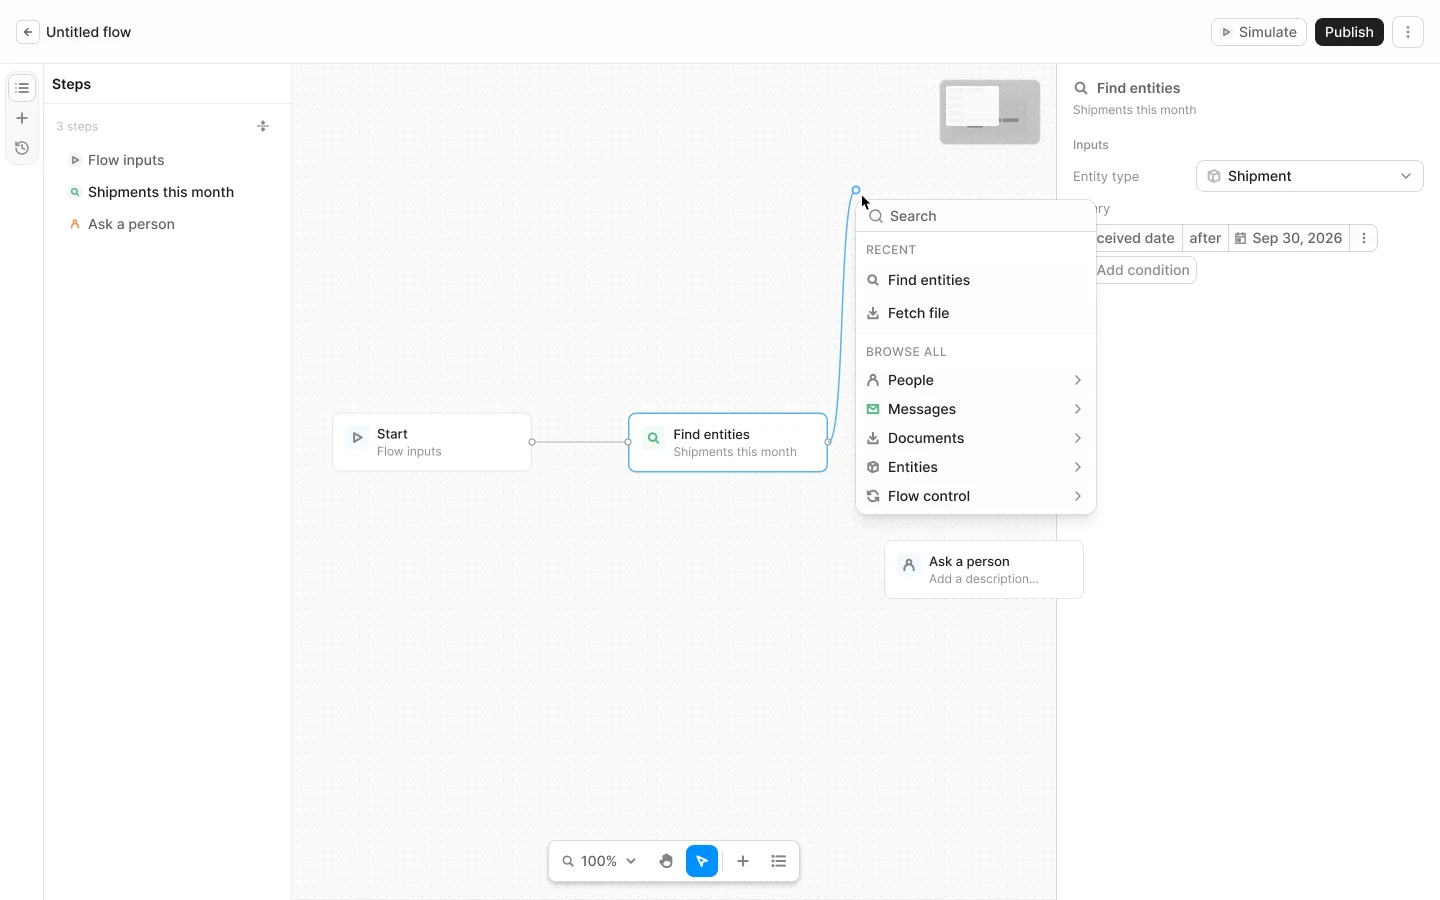
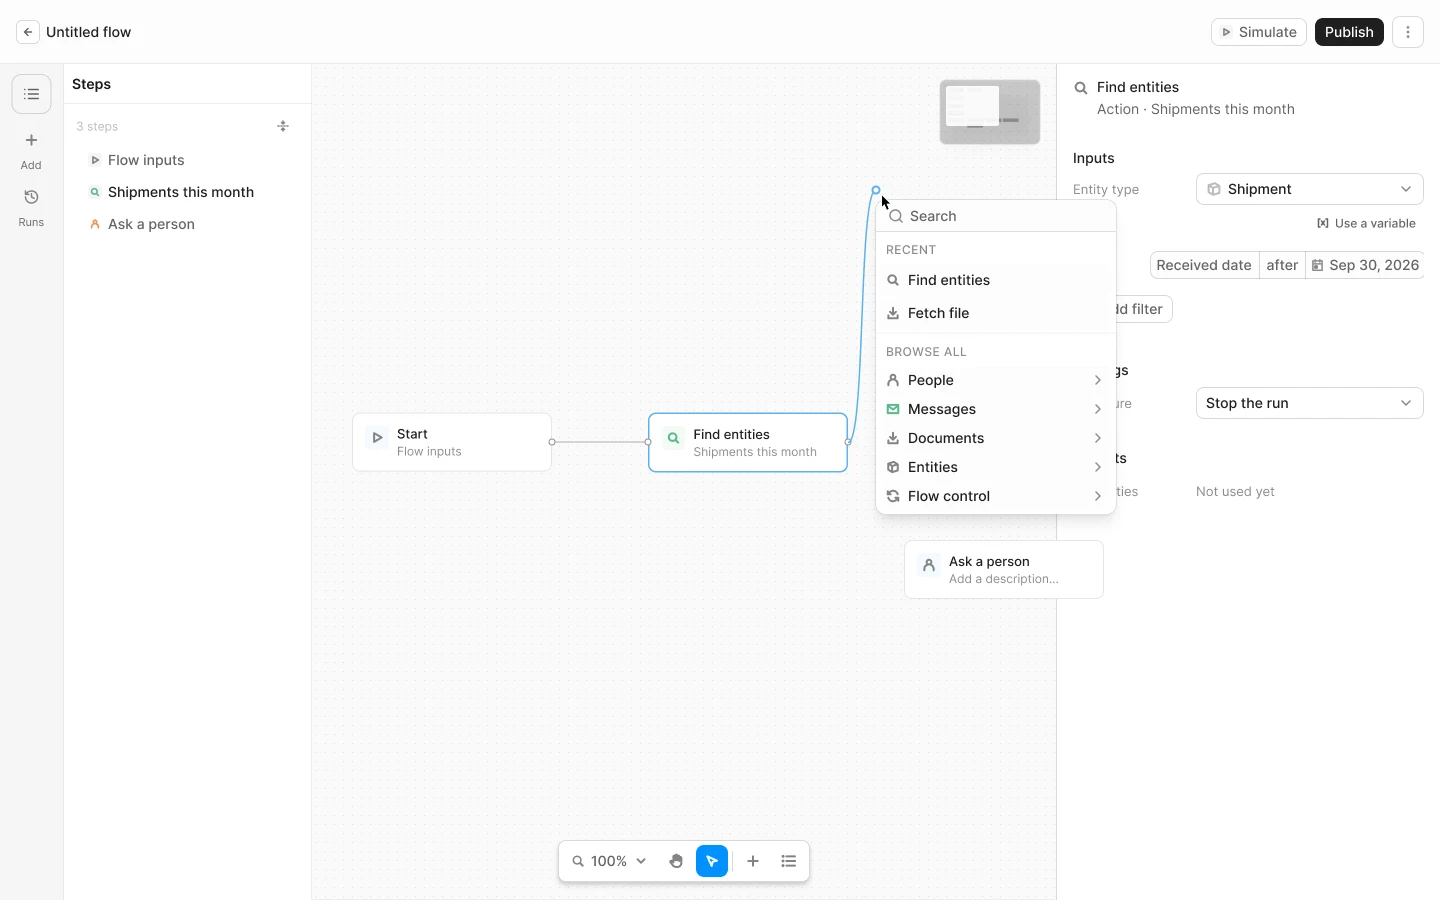
Flows editor: R3 rail; Action prefix only with a description
Replaces the segmented rail with Aakarsh's R3 pick (Explorations
933:120562, 933:121144): a 64 px grey rail, the open panel as a 40 px
pressed ghost icon button with no label, the others as 32 px ghost icon
buttons over an 11 px label. The panel starts at 64 px, the canvas at
312. A step with no description shows "Add a description…" alone, as
J2.1 does. Re-exports the twelve Find entities placeholders.

diff --git a/libs/@hashintel/petrinaut/flows-editor-prototype/src/left-panel.tsx b/libs/@hashintel/petrinaut/flows-editor-prototype/src/left-panel.tsx
@@ -4,7 +4,6 @@ import {
   Button,
   Icon,
   type IconName,
-  SegmentedControl,
   TextInput,
 } from "@hashintel/ds-components";
 import { css, cva, cx } from "@hashintel/ds-helpers/css";
@@ -478,20 +477,44 @@ const Library = () => {
   );
 };
 
-/** Option F's rail (2 Nov): 44 px, white, a hairline on its right, the DS SegmentedControl standing up in it. */
+/**
+ * The R3 rail (Aakarsh's pick, 2 Nov; Explorations 933:120562, 933:121144): 64 px, grey, a hairline on its right,
+ * items centred 10 px apart from 10 px down.
+ */
 const railStyle = css({
   display: "flex",
   flexDirection: "column",
   alignItems: "center",
+  gap: "[10px]",
   flexShrink: 0,
-  width: "[44px]",
+  width: "[64px]",
   height: "[100%]",
-  paddingTop: "2",
-  backgroundColor: "neutral.bgSolid.min",
+  paddingTop: "[10px]",
+  backgroundColor: "neutral.bgSolid.surface.active",
   borderRightWidth: "thin",
   borderRightStyle: "solid",
   borderRightColor: "neutral.bd.subtle",
 });
+
+/** A closed item: a 32 px ghost icon button over its 11 px grey label, 2 px apart. */
+const railItemStyle = css({
+  display: "flex",
+  flexDirection: "column",
+  alignItems: "center",
+  gap: "[2px]",
+});
+
+const railLabelStyle = css({
+  fontSize: "[11px]", // token-guard: allow R3 rail labels are 11 px, below the DS xs step
+  lineHeight: "[13px]",
+  color: "neutral.fg.muted",
+});
+
+const railItems = [
+  { value: "steps", icon: "list", label: "Steps" },
+  { value: "add", icon: "plus", label: "Add" },
+  { value: "runs", icon: "clockRotateLeft", label: "Runs" },
+] as const;
 
 /** The panel's title: "Steps", "Add a step", "Runs", 14 px semibold, 8 px in, in a 40 px header. */
 const panelTitleStyle = css({
@@ -599,25 +622,40 @@ export const LeftPanel = () => {
   return (
     <>
       <nav className={railStyle} aria-label="Panels">
-        <SegmentedControl
-          aria-label="Panels"
-          layout="vertical"
-          size="md"
-          value={panel}
-          onChange={(next) =>
-            setUi((current) => ({
-              ...current,
-              leftPanel: next,
-              // Leaving Runs goes back to editing.
-              viewRunId: next === "runs" ? current.viewRunId : null,
-            }))
-          }
-          items={[
-            { value: "steps", iconName: "list", tooltip: "Steps" },
-            { value: "add", iconName: "plus", tooltip: "Add a step" },
-            { value: "runs", iconName: "clockRotateLeft", tooltip: "Runs" },
-          ]}
-        />
+        {railItems.map((item) =>
+          item.value === panel ? (
+            // The open panel: a 40 px ghost icon button, pressed, with no label.
+            <Button
+              key={item.value}
+              size="lg"
+              variant="ghost"
+              tone="neutral"
+              iconName={item.icon}
+              pressed
+              aria-label={item.label}
+              aria-current="page"
+            />
+          ) : (
+            <div key={item.value} className={railItemStyle}>
+              <Button
+                size="md"
+                variant="ghost"
+                tone="neutral"
+                iconName={item.icon}
+                aria-label={item.label}
+                onClick={() =>
+                  setUi((current) => ({
+                    ...current,
+                    leftPanel: item.value,
+                    // Leaving Runs goes back to editing.
+                    viewRunId: item.value === "runs" ? current.viewRunId : null,
+                  }))
+                }
+              />
+              <span className={railLabelStyle}>{item.label}</span>
+            </div>
+          ),
+        )}
       </nav>
       <aside className={panelStyle} aria-label={panelTitles[panel]}>
         <div className={panelTitleStyle}>{panelTitles[panel]}</div>

diff --git a/libs/@hashintel/petrinaut/flows-editor-prototype/src/properties-panel.tsx b/libs/@hashintel/petrinaut/flows-editor-prototype/src/properties-panel.tsx
@@ -348,18 +348,20 @@ const PanelHeader = ({
           }
         />
       ) : stepId && description !== undefined ? (
-        // "Action · description", as in V3 P1 (Figma 118:1748).
+        // "Action · description", as in V3 P1 (Figma 118:1748); with no description yet, "Add a description…" alone (J2.1).
         <span className={css({ display: "flex", alignItems: "baseline" })}>
-          <span
-            className={css({
-              flexShrink: 0,
-              whiteSpace: "pre",
-              textStyle: "sm",
-              color: "neutral.fg.muted.hover",
-            })}
-          >
-            {"Action · "}
-          </span>
+          {description.trim() ? (
+            <span
+              className={css({
+                flexShrink: 0,
+                whiteSpace: "pre",
+                textStyle: "sm",
+                color: "neutral.fg.muted.hover",
+              })}
+            >
+              {"Action · "}
+            </span>
+          ) : null}
           <span className={css({ flex: "1", minWidth: "0", display: "grid" })}>
             <DescriptionInput
               label="Step description"
